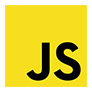
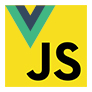
feat: #8 update the pictures
#8

Changed region(s): [[0.0435, 0.0435, 0.6087, 0.5435]]

diff --git a/resources/views/home.blade.php b/resources/views/home.blade.php
@@ -105,7 +105,7 @@
             <div class="row ini">
                 <div class="cell">
                     <div id="avatar">
-                        <img src="{{ asset('images/avatar.jpg') }}" srcset="{{ asset('images/avatar-hd-2x.jpg') }} 540w,{{ asset('images/avatar-2x.jpg') }} 416w,{{ asset('images/avatar-sd-2x.jpg') }} 380w,{{ asset('images/avatar-hd.jpg') }} 270w,{{ asset('images/avatar.jpg') }} 208w,{{ asset('images/avatar-sd.jpg') }} 190w" sizes="(max-width: 376px) 54vw, 40vw" itemprop="image" alt="Ma photo de profil">
+                        <img src="{{ asset('images/avatar.jpg') }}" itemprop="image" alt="Ma photo de profil">
                     </div>
                 </div>
                 <div class="cell">
@@ -140,7 +140,7 @@
                     <figure>
                         <div class="cell">
                             <div class="strew">
-                                <img src="{{ asset('images/html5.jpg') }}" srcset="{{ asset('images/html5-2x.jpg') }} 184w,{{ asset('images/html5.jpg') }} 92w" sizes="92px" alt="Logo de l'html 5">
+                                <img src="{{ asset('images/html5.jpg') }}" alt="Logo de l'html 5">
                             </div>
                         </div>
                         <figcaption>
@@ -155,7 +155,7 @@
                     <figure>
                         <div class="cell">
                             <div class="strew">
-                                <img src="{{ asset('images/css3.jpg') }}" srcset="{{ asset('images/css3-2x.jpg') }} 184w,{{ asset('images/css3.jpg') }} 92w" sizes="92px" alt="Logo du css 3">
+                                <img src="{{ asset('images/css3.jpg') }}" alt="Logo du css 3">
                             </div>
                         </div>
                         <figcaption>
@@ -170,12 +170,12 @@
                     <figure>
                         <div class="cell">
                             <div class="strew">
-                                <img src="{{ asset('images/javascript.jpg') }}" srcset="{{ asset('images/javascript-2x.jpg') }} 184w,{{ asset('images/javascript.jpg') }} 92w" sizes="92px" alt="Logo du JavaScript">
+                                <img src="{{ asset('images/javascript.jpg') }}" alt="Logo du JavaScript">
                             </div>
                         </div>
                         <figcaption>
-                            <h4>JavaScript - ECMAScript 5 / 6</h4>
-                            <p>Le <strong>JavaScript</strong> permet d'ajouter une touche d'intéraction avec l'utilisateur. Une touche de <strong>jQuery</strong> ou de <strong>Zepto</strong> suivant les navigateurs cibles accélere le code.</p>
+                            <h4>JavaScript - ECMAScript 5 / 6 - Vue.js</h4>
+                            <p>Le <strong>JavaScript</strong> permet d'ajouter une touche d'intéraction avec l'utilisateur. <strong>Vue.js</strong> permet d'obtenir une interface interactive et réactive aux changements.</p>
                             <div class="progress-bar w75p">
                                 <progress value="75" max="100"></progress>
                             </div>
@@ -185,7 +185,7 @@
                     <figure>
                         <div class="cell">
                             <div class="strew">
-                                <img src="{{ asset('images/php.jpg') }}" srcset="{{ asset('images/php-2x.jpg') }} 184w,{{ asset('images/php.jpg') }} 92w" sizes="92px" alt="Logo du php">
+                                <img src="{{ asset('images/php.jpg') }}" alt="Logo du php">
                             </div>
                         </div>
                         <figcaption>
@@ -200,7 +200,7 @@
                     <figure>
                         <div class="cell">
                             <div class="strew">
-                                <img src="{{ asset('images/mysql.jpg') }}" srcset="{{ asset('images/mysql-2x.jpg') }} 184w,{{ asset('images/mysql.jpg') }} 92w" sizes="92px" alt="Logo de mysql">
+                                <img src="{{ asset('images/mysql.jpg') }}" alt="Logo de mysql">
                             </div>
                         </div>
                         <figcaption>
@@ -215,7 +215,7 @@
                     <figure>
                         <div class="cell">
                             <div class="strew">
-                                <img src="{{ asset('images/bash.jpg') }}" srcset="{{ asset('images/bash-2x.jpg') }} 184w,{{ asset('images/bash.jpg') }} 92w" sizes="92px" alt="Logo de bash">
+                                <img src="{{ asset('images/bash.jpg') }}" alt="Logo de bash">
                             </div>
                         </div>
                         <figcaption>
@@ -235,13 +235,12 @@
                     <figure>
                         <div class="cell">
                             <div class="strew">
-                                <img src="{{ asset('images/sublime-text.jpg') }}" srcset="{{ asset('images/sublime-text-2x.jpg') }} 184w,{{ asset('images/sublime-text.jpg') }} 92w" sizes="92px" alt="Logo du sublime text">
+                                <img src="{{ asset('images/visual-code-studio.svg') }}" alt="Logo du visual code studio">
                             </div>
                         </div>
                         <figcaption>
-                            <h4>Sublime Text 2 / 3</h4>
-                            <p>Editeur de texte sobre et léger, rendu puissant grâce aux plugins.<br>
-                            <strong>Visual Studio</strong> ou encore <strong>Atom</strong> sont des <strong>IDE</strong> et par conséquent lourd à manipuler.</p>
+                            <h4>Visual Code Studio</h4>
+                            <p>IDE sobre et léger, rendu puissant grâce aux plugins.</p>
                             <div class="progress-bar w90p">
                                 <progress value="90" max="100"></progress>
                             </div>
@@ -251,7 +250,7 @@
                     <figure>
                         <div class="cell">
                             <div class="strew">
-                                <img src="{{ asset('images/apache-node.jpg') }}" srcset="{{ asset('images/apache-node-2x.jpg') }} 184w,{{ asset('images/apache-node.jpg') }} 92w" sizes="92px" alt="Fusion du logo d'apache et de node.js">
+                                <img src="{{ asset('images/apache-node.jpg') }}" alt="Fusion du logo d'apache et de node.js">
                             </div>
                         </div>
                         <figcaption>
@@ -266,7 +265,7 @@
                     <figure>
                         <div class="cell">
                             <div class="strew">
-                                <img src="{{ asset('images/git.jpg') }}" srcset="{{ asset('images/git-2x.jpg') }} 184w,{{ asset('images/git.jpg') }} 92w" sizes="92px" alt="Logo de git">
+                                <img src="{{ asset('images/git.jpg') }}" alt="Logo de git">
                             </div>
                         </div>
                         <figcaption>
@@ -281,7 +280,7 @@
                     <figure>
                         <div class="cell">
                             <div class="strew">
-                                <img src="{{ asset('images/google-drive.jpg') }}" srcset="{{ asset('images/google-drive-2x.jpg') }} 184w,{{ asset('images/google-drive.jpg') }} 92w" sizes="92px" alt="Logo du google drive">
+                                <img src="{{ asset('images/google-drive.jpg') }}" alt="Logo du google drive">
                             </div>
                         </div>
                         <figcaption>
@@ -295,7 +294,7 @@
                     <figure>
                         <div class="cell">
                             <div class="strew">
-                                <img src="{{ asset('images/serif-affinity-designer.jpg') }}" srcset="{{ asset('images/serif-affinity-designer-2x.jpg') }} 184w,{{ asset('images/serif-affinity-designer.jpg') }} 92w" sizes="92px" alt="Logo de affinity designer de Serif">
+                                <img src="{{ asset('images/serif-affinity-designer.jpg') }}" alt="Logo de affinity designer de Serif">
                             </div>
                         </div>
                         <figcaption>
@@ -309,7 +308,7 @@
                     <figure>
                         <div class="cell">
                             <div class="strew">
-                                <img src="{{ asset('images/adobe-photoshop.jpg') }}" srcset="{{ asset('images/adobe-photoshop-2x.jpg') }} 184w,{{ asset('images/adobe-photoshop.jpg') }} 92w" sizes="92px" alt="Logo de photoshop d'adobe">
+                                <img src="{{ asset('images/adobe-photoshop.jpg') }}" alt="Logo de photoshop d'adobe">
                             </div>
                         </div>
                         <figcaption>
@@ -323,7 +322,7 @@
                     <figure>
                         <div class="cell">
                             <div class="strew">
-                                <img src="{{ asset('images/adobe-illustrator.jpg') }}" srcset="{{ asset('images/adobe-illustrator-2x.jpg') }} 184w,{{ asset('images/adobe-illustrator.jpg') }} 92w" sizes="92px" alt="Logo d'illustrator d'adobe">
+                                <img src="{{ asset('images/adobe-illustrator.jpg') }}" alt="Logo d'illustrator d'adobe">
                             </div>
                         </div>
                         <figcaption>
@@ -337,7 +336,7 @@
                     <figure>
                         <div class="cell">
                             <div class="strew">
-                                <img src="{{ asset('images/adobe-premier.jpg') }}" srcset="{{ asset('images/adobe-premier-2x.jpg') }} 184w,{{ asset('images/adobe-premier.jpg') }} 92w" sizes="92px" alt="Logo de premier d'adobe">
+                                <img src="{{ asset('images/adobe-premier.jpg') }}" alt="Logo de premier d'adobe">
                             </div>
                         </div>
                         <figcaption>
@@ -356,7 +355,7 @@
                     <figure>
                         <div class="cell">
                             <div class="strew">
-                                <img src="{{ asset('images/linux.jpg') }}" srcset="{{ asset('images/linux-2x.jpg') }} 184w,{{ asset('images/linux.jpg') }} 92w" sizes="92px" alt="Logo de linux représentant un pingouin">
+                                <img src="{{ asset('images/linux.jpg') }}" alt="Logo de linux représentant un pingouin">
                             </div>
                         </div>
                         <figcaption>
@@ -370,7 +369,7 @@
                     <figure>
                         <div class="cell">
                             <div class="strew">
-                                <img src="{{ asset('images/windows.jpg') }}" srcset="{{ asset('images/windows-2x.jpg') }} 184w,{{ asset('images/windows.jpg') }} 92w" sizes="92px" alt="Logo de windows 10">
+                                <img src="{{ asset('images/windows.jpg') }}" alt="Logo de windows 10">
                             </div>
                         </div>
                         <figcaption>
@@ -384,7 +383,7 @@
                     <figure>
                         <div class="cell">
                             <div class="strew">
-                                <img src="{{ asset('images/mac-os.jpg') }}" srcset="{{ asset('images/mac-os-2x.jpg') }} 184w,{{ asset('images/mac-os.jpg') }} 92w" sizes="92px" alt="Logo de mac os">
+                                <img src="{{ asset('images/mac-os.jpg') }}" alt="Logo de mac os">
                             </div>
                         </div>
                         <figcaption>
@@ -398,7 +397,7 @@
                     <figure>
                         <div class="cell">
                             <div class="strew">
-                                <img src="{{ asset('images/network.jpg') }}" srcset="{{ asset('images/network-2x.jpg') }} 184w,{{ asset('images/network.jpg') }} 92w" sizes="92px" alt="Logo schématique d'un réseau">
+                                <img src="{{ asset('images/network.jpg') }}" alt="Logo schématique d'un réseau">
                             </div>
                         </div>
                         <figcaption>
@@ -513,7 +512,7 @@
                     <header>
                         <h3>
                             <a href="https://www.my-serious-game.com/" title="Aller voir l'entreprise" target="_blank" rel="nofollow" itemprop="url">
-                                <img src="{{ asset('images/my-serious-game-sd.jpg') }}" itemprop="image" srcset="{{ asset('images/my-serious-game-xd-2x.jpg') }} 1850w,{{ asset('images/my-serious-game-hd-2x.jpg') }} 1324w,{{ asset('images/my-serious-game-xd.jpg') }} 991w,{{ asset('images/my-serious-game-hd.jpg') }} 662w,{{ asset('images/my-serious-game-md.jpg') }} 501w,{{ asset('images/my-serious-game-ld.jpg') }} 488w,{{ asset('images/my-serious-game-sd.jpg') }} 315w" sizes="(max-width: 501px) 100vw, (max-width: 1023px) 93vw, 661px" alt="MY‑SERIOUS‑GAME">
+                                <img src="{{ asset('images/my-serious-game-sd.jpg') }}" itemprop="image" alt="MY‑SERIOUS‑GAME">
                                 <span itemprop="name">MY‑SERIOUS‑GAME</span>
                             </a>
                         </h3>
@@ -584,7 +583,7 @@
                     </figcaption>
                 </figure>
                 <figure itemprop="workExample" itemscope itemtype="http://schema.org/CreativeWork">
-                    <img src="{{ asset('images/concours-dcb-2016-sd.jpg') }}" srcset="{{ asset('images/concours-dcb-2016-xd-2x.jpg') }} 860w,{{ asset('images/concours-dcb-2016-hd-2x.jpg') }} 750w,{{ asset('images/concours-dcb-2016-md-2x.jpg') }} 702w,{{ asset('images/concours-dcb-2016-ld-2x.jpg') }} 470w,{{ asset('images/concours-dcb-2016-sd-2x.jpg') }} 456w,{{ asset('images/concours-dcb-2016-xd.jpg') }} 430w,{{ asset('images/concours-dcb-2016-hd.jpg') }} 375w,{{ asset('images/concours-dcb-2016-md.jpg') }} 351w,{{ asset('images/concours-dcb-2016-ld.jpg') }} 235w,{{ asset('images/concours-dcb-2016-sd.jpg') }} 228w" sizes="(max-width: 375px) 100vw, (max-width: 501px) 85vw, (max-width: 751px) 46vw, (max-width: 1023px) 23vw, 228px" alt="Vignette du site Concours DCB 2016" itemprop="thumbnailUrl">
+                    <img src="{{ asset('images/concours-dcb-2016-sd.jpg') }}" alt="Vignette du site Concours DCB 2016" itemprop="thumbnailUrl">
                     <figcaption itemprop="description">
                         <h4 itemprop="name">Concours DCB 2016</h4>
                         <p>Version digital d'un concours pour le Groupe Vinci. Sous le format d'un jeu les participants doivent retrouver les erreurs de sécurités qui se sont glisser sur les planches.</p>
@@ -593,7 +592,7 @@
                     </figcaption>
                 </figure>
                 <figure itemprop="workExample" itemscope itemtype="http://schema.org/CreativeWork">
-                    <img src="{{ asset('images/bytubes-sd.jpg') }}" srcset="{{ asset('images/bytubes-xd-2x.jpg') }} 860w,{{ asset('images/bytubes-hd-2x.jpg') }} 750w,{{ asset('images/bytubes-md-2x.jpg') }} 702w,{{ asset('images/bytubes-ld-2x.jpg') }} 470w,{{ asset('images/bytubes-sd-2x.jpg') }} 456w,{{ asset('images/bytubes-xd.jpg') }} 430w,{{ asset('images/bytubes-hd.jpg') }} 375w,{{ asset('images/bytubes-md.jpg') }} 351w,{{ asset('images/bytubes-ld.jpg') }} 235w,{{ asset('images/bytubes-sd.jpg') }} 228w" sizes="(max-width: 375px) 100vw, (max-width: 501px) 85vw, (max-width: 751px) 46vw, (max-width: 1023px) 23vw, 228px" alt="Vignette du site de partage de vidéo BYtubES" itemprop="thumbnailUrl">
+                    <img src="{{ asset('images/bytubes-sd.jpg') }}" alt="Vignette du site de partage de vidéo BYtubES" itemprop="thumbnailUrl">
                     <figcaption itemprop="description">
                         <h4 itemprop="name">BYtubES</h4>
                         <p>Plateforme de partage de vidéos online demandée par les compagnons de Bouygues Énergies et Services pour transmettre plus rapidement et facilement les bonnes pratiques.</p>
@@ -608,7 +607,7 @@
             <div class="grid" itemscope itemtype="http://schema.org/ImageGallery">
                 <h3 class="per" itemprop="name">Personnel</h3>
                 <figure itemprop="workExample" itemscope itemtype="http://schema.org/CreativeWork">
-                    <img src="{{ asset('images/pptx-enigma-sd.jpg') }}" srcset="{{ asset('images/pptx-enigma-xd-2x.jpg') }} 860w,{{ asset('images/pptx-enigma-hd-2x.jpg') }} 750w,{{ asset('images/pptx-enigma-md-2x.jpg') }} 702w,{{ asset('images/pptx-enigma-ld-2x.jpg') }} 470w,{{ asset('images/pptx-enigma-sd-2x.jpg') }} 456w,{{ asset('images/pptx-enigma-xd.jpg') }} 430w,{{ asset('images/pptx-enigma-hd.jpg') }} 375w,{{ asset('images/pptx-enigma-md.jpg') }} 351w,{{ asset('images/pptx-enigma-ld.jpg') }} 235w,{{ asset('images/pptx-enigma-sd.jpg') }} 228w" sizes="(max-width: 375px) 100vw, (max-width: 501px) 85vw, (max-width: 751px) 46vw, (max-width: 1023px) 23vw, 228px" alt="Logo de pptx-enigma" itemprop="thumbnailUrl">
+                    <img src="{{ asset('images/pptx-enigma-sd.jpg') }}" alt="Logo de pptx-enigma" itemprop="thumbnailUrl">
                     <figcaption itemprop="description">
                         <h4 itemprop="name">PPTX-Enigma</h4>
                         <p>PPTX-Enigma est une librairie PHP destiner à l'extraction de voix-off des zones de commentaires des PowerPoints.</p>
@@ -620,7 +619,7 @@
                 </figure>
                 <figure itemprop="workExample" itemscope itemtype="http://schema.org/CreativeWork">
                     <div class="bgLight">
-                        <img src="{{ asset('images/KMark-sd.jpg') }}" srcset="{{ asset('images/KMark-sd.jpg') }} 228w,{{ asset('images/KMark-ld.jpg') }} 235w,{{ asset('images/KMark-md.jpg') }} 351w,{{ asset('images/KMark-hd.jpg') }} 375w,{{ asset('images/KMark-xd.jpg') }} 430w,{{ asset('images/KMark-sd-2x.jpg') }} 456w,{{ asset('images/KMark-ld-2x.jpg') }} 470w,{{ asset('images/KMark-md-2x.jpg') }} 702w,{{ asset('images/KMark-hd-2x.jpg') }} 750w,{{ asset('images/KMark-xd-2x.jpg') }} 860w" sizes="(max-width: 375px) 100vw, (max-width: 501px) 85vw, (max-width: 751px) 46vw, (max-width: 1023px) 23vw, 228px" alt="Logo de kmark" itemprop="thumbnailUrl">
+                        <img src="{{ asset('images/KMark-sd.jpg') }}" alt="Logo de kmark" itemprop="thumbnailUrl">
                     </div>
                     <figcaption itemprop="description">
                         <h4 itemprop="name">KMark <em>v<span itemprop="version">0.5 (beta)</span></em></h4>
@@ -632,7 +631,7 @@
                     </figcaption>
                 </figure>
                 <figure itemprop="workExample" itemscope itemtype="http://schema.org/CreativeWork">
-                    <img src="{{ asset('images/Papillons-au-Clair-de-Lune-sd.jpg') }}" srcset="{{ asset('images/Papillons-au-Clair-de-Lune-xd-2x.jpg') }} 860w,{{ asset('images/Papillons-au-Clair-de-Lune-hd-2x.jpg') }} 750w,{{ asset('images/Papillons-au-Clair-de-Lune-md-2x.jpg') }} 702w,{{ asset('images/Papillons-au-Clair-de-Lune-ld-2x.jpg') }} 470w,{{ asset('images/Papillons-au-Clair-de-Lune-sd-2x.jpg') }} 456w,{{ asset('images/Papillons-au-Clair-de-Lune-xd.jpg') }} 430w,{{ asset('images/Papillons-au-Clair-de-Lune-hd.jpg') }} 375w,{{ asset('images/Papillons-au-Clair-de-Lune-md.jpg') }} 351w,{{ asset('images/Papillons-au-Clair-de-Lune-ld.jpg') }} 235w,{{ asset('images/Papillons-au-Clair-de-Lune-sd.jpg') }} 228w" sizes="(max-width: 375px) 100vw, (max-width: 501px) 85vw, (max-width: 751px) 46vw, (max-width: 1023px) 23vw, 228px" alt="Vignette de l'artwork Papillons au clair de lune" itemprop="thumbnailUrl">
+                    <img src="{{ asset('images/Papillons-au-Clair-de-Lune-sd.jpg') }}" alt="Vignette de l'artwork Papillons au clair de lune" itemprop="thumbnailUrl">
                     <figcaption itemprop="description">
                         <h4 itemprop="name">Papillons au clair de lune</h4>
                         <p>Un fond d'écran créer pour un site internet, lune et décor se reflétant dans l'eau légèrement trouble de la vie, agrémenter de papillons lunaires.</p>
@@ -644,7 +643,7 @@
                     </figcaption>
                 </figure>
                 <figure itemprop="workExample" itemscope itemtype="http://schema.org/CreativeWork">
-                    <img src="{{ asset('images/Id-Fight-sd.jpg') }}" srcset="{{ asset('images/Id-Fight-xd-2x.jpg') }} 860w,{{ asset('images/Id-Fight-hd-2x.jpg') }} 750w,{{ asset('images/Id-Fight-md-2x.jpg') }} 702w,{{ asset('images/Id-Fight-ld-2x.jpg') }} 470w,{{ asset('images/Id-Fight-sd-2x.jpg') }} 456w,{{ asset('images/Id-Fight-xd.jpg') }} 430w,{{ asset('images/Id-Fight-hd.jpg') }} 375w,{{ asset('images/Id-Fight-md.jpg') }} 351w,{{ asset('images/Id-Fight-ld.jpg') }} 235w,{{ asset('images/Id-Fight-sd.jpg') }} 228w" sizes="(max-width: 375px) 100vw, (max-width: 501px) 85vw, (max-width: 751px) 46vw, (max-width: 1023px) 23vw, 228px" alt="Vignette de l'artwork Id Fight" itemprop="thumbnailUrl">
+                    <img src="{{ asset('images/Id-Fight-sd.jpg') }}" alt="Vignette de l'artwork Id Fight" itemprop="thumbnailUrl">
                     <figcaption itemprop="description">
                         <h4 itemprop="name">Id Fight</h4>
                         <p>Colorisation en aplat d'un dessin au trait en noir et blanc tirée d'un manhwa.</p>
